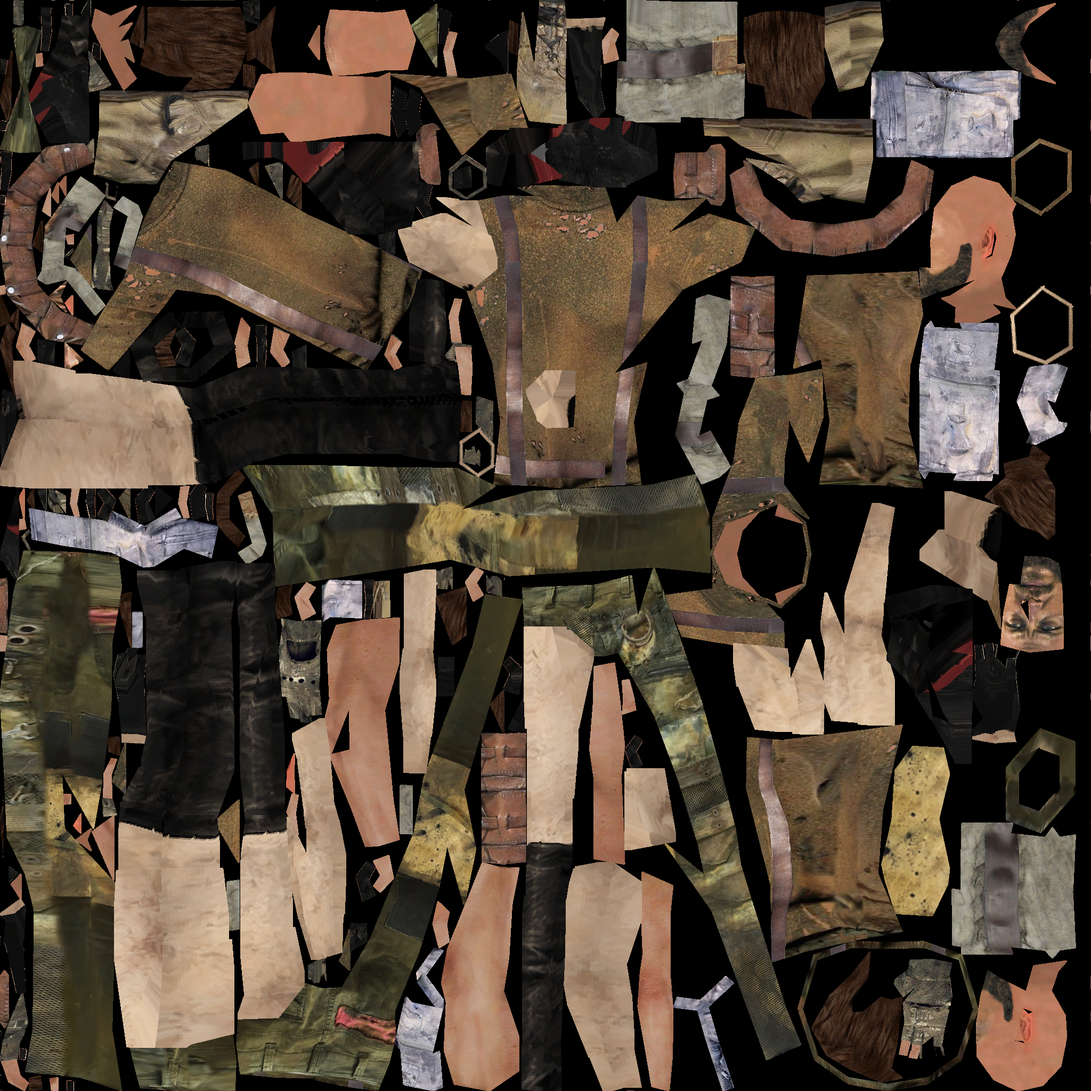
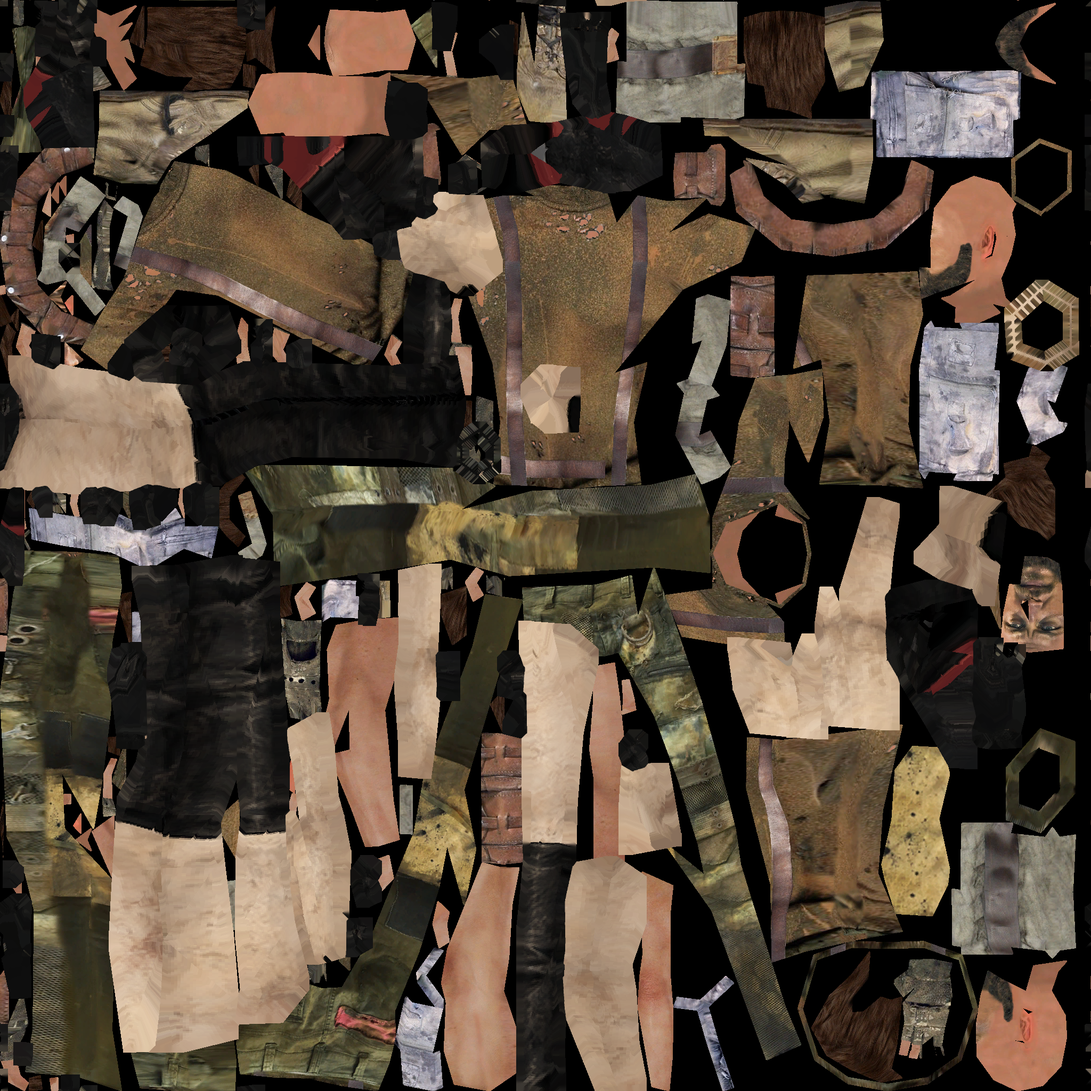
FemalePlayer 0.5.5: arms texture - the game's glove cuff stays glove, no skin on the hands (tools/gloves.py post-pass), islands padded against mip bleeding; third-person melee swing timed to the first-person swing (arm Animator state length); car: entering in third person switches the car to its thi
Claude-Session: https://claude.ai/code/session_01RzmNirKcxka5efrDnhG4RK

diff --git a/Body.cs b/Body.cs
@@ -72,7 +72,7 @@ namespace FemalePlayer
         }
         private readonly Dictionary<string, AnimationClip> _clips = new Dictionary<string, AnimationClip>();
 
-        private float _phase, _speedSmooth, _strafeSmooth, _crouch, _prone, _runW, _meleeUntil;
+        private float _phase, _speedSmooth, _strafeSmooth, _crouch, _prone, _runW;
         private float _legThigh, _legShin;
         private bool _inCar, _snap;
         private View _lastView = View.FirstPerson;
@@ -226,6 +226,42 @@ namespace FemalePlayer
             Plugin.Verbose("Animation graph: idle " + (idle != null ? idle.name : "-") + ", run " + (run != null ? run.name : "-"));
         }
 
+        // melee swing in third person timed to the first-person one: the drawn weapon's arm Animator switches to its swing state on the click;
+        // its length (s) = how long her swing lasts, and her clip is sped up to fit it (the raider/Mixamo swings are much slower than the game's)
+        private Animator _meleeFp;
+        private int _meleeHash0;
+        private bool _meleeMeasuring;
+        private float _meleeStart, _meleeLen = 0.5f, _meleeSpeed = 1f;
+        private void StartMelee(string weapon)
+        {
+            _meleeStart = Time.time; _upperClip = ""; _meleeLen = 0.5f; _meleeMeasuring = false; _meleeFp = null;
+            var w = Game.WeaponsParent != null && !string.IsNullOrEmpty(weapon) ? Game.WeaponsParent.Find(weapon) : null;
+            if (w != null) _meleeFp = w.GetComponentInChildren<Animator>();
+            if (_meleeFp != null && _meleeFp.isActiveAndEnabled) { _meleeHash0 = _meleeFp.GetCurrentAnimatorStateInfo(0).fullPathHash; _meleeMeasuring = true; }
+        }
+
+        private bool UpdateMelee(string clipName)
+        {
+            if (_meleeStart <= 0f) return false;
+            if (_meleeMeasuring && _meleeFp != null && Time.time - _meleeStart < 0.3f)
+            {
+                var st = _meleeFp.IsInTransition(0) ? _meleeFp.GetNextAnimatorStateInfo(0) : _meleeFp.GetCurrentAnimatorStateInfo(0);
+                if (st.fullPathHash != _meleeHash0 && st.length > 0.05f)
+                {
+                    float sp = Mathf.Abs(_meleeFp.speed * st.speedMultiplier);
+                    _meleeLen = Mathf.Clamp(st.length / Mathf.Max(0.1f, sp), 0.2f, 2f);
+                    _meleeMeasuring = false;
+                    Plugin.Verbose("Melee: first-person swing " + _meleeLen.ToString("0.00") + " s");
+                }
+            }
+            else _meleeMeasuring = false;
+            var c = Clip(clipName);
+            _meleeSpeed = c != null ? Mathf.Clamp(c.length / _meleeLen, 0.5f, 5f) : 1f;
+            if (Time.time - _meleeStart < _meleeLen) return true;
+            _meleeStart = 0f;
+            return false;
+        }
+
         private void SetUpper(string clipName, float weight, float speed)
         {
             if (string.IsNullOrEmpty(clipName)) { _layers.SetInputWeight(1, 0f); return; }   // keep the last clip connected, just off
@@ -322,8 +358,8 @@ namespace FemalePlayer
             bool fire = !Game.Paused && Input.GetMouseButton(0);
             if (kind == Props.Kind.Melee || kind == Props.Kind.None || kind == Props.Kind.Throw)
             {
-                if (kind == Props.Kind.Melee && !Game.Paused && Input.GetMouseButtonDown(0)) { _meleeUntil = Time.time + 0.8f; SetUpper(Plugin.MeleeClip.Value, 1f, 1f); _upper.SetTime(0); }
-                if (Time.time < _meleeUntil) SetUpper(Plugin.MeleeClip.Value, 1f, 1f);
+                if (kind == Props.Kind.Melee && !Game.Paused && Input.GetMouseButtonDown(0)) StartMelee(weapon);
+                if (UpdateMelee(Plugin.MeleeClip.Value)) SetUpper(Plugin.MeleeClip.Value, 1f, _meleeSpeed);
                 else SetUpper("", 0f, 0f);
             }
             else
@@ -628,7 +664,8 @@ namespace FemalePlayer
             _jumpState = js;
             UpdateAction(dt);
 
-            if (kind == Props.Kind.Melee && click) { _meleeUntil = Time.time + 0.9f; _upperClip = ""; }
+            string meleeClip = Anims.Get("Melee") != null ? "Melee" : Plugin.MeleeClip.Value;
+            if (kind == Props.Kind.Melee && click) StartMelee(weapon);
             if (kind == Props.Kind.Throw && click) StartThrow();
             string gs = Game.GrenadeState;   // the quick grenade (Throw Grenade key) is not a drawn weapon: watch its Attack FSM
             if (gs == "fire" && _grenadeState != "fire") StartThrow();
@@ -640,7 +677,7 @@ namespace FemalePlayer
                 SetUpper(kind == Props.Kind.Pistol ? "PistolReload" : "RifleReload", 1f, 1f);
             else if (kind == Props.Kind.Melee)
             {
-                if (Time.time < _meleeUntil) SetUpper(Anims.Get("Melee") != null ? "Melee" : Plugin.MeleeClip.Value, 1f, 1f); else SetUpper("", 0f, 0f);
+                if (UpdateMelee(meleeClip)) SetUpper(meleeClip, 1f, _meleeSpeed); else SetUpper("", 0f, 0f);
             }
             else if (kind == Props.Kind.Throw)
             {

diff --git a/ThirdPerson.cs b/ThirdPerson.cs
@@ -22,8 +22,60 @@ namespace FemalePlayer
         private static float _nextScan, _dist, _aimDist = 20f;
         private static readonly int Mask = ~((1 << 6) | (1 << 2) | (1 << 5) | (1 << 9) | (1 << 22));   // not the player, ignore-raycast, UI, loose items, map icons
 
+        // cars: entering in third person switches the car's own camera to its third-person view; Use (F) in the car's third-person view
+        // gets out (the game only lets you out in first person, looking at the door) and keeps third person on foot
+        private static bool _wasInCar, _carWantThird, _carThirdDone, _stayThird;
+        private static float _carEnter, _exitStep;
+        private static int _exitPhase;
+
+        private static void CarTick()
+        {
+            bool inCar = Game.Ready && Game.InCar;
+            float now = Time.unscaledTime;
+            if (inCar && !_wasInCar) { _carWantThird = On && Plugin.ThirdPersonOnFoot.Value; _carThirdDone = false; _carEnter = now; _exitPhase = 0; }
+            if (!inCar && _wasInCar)
+            {
+                if (_exitPhase > 0) _stayThird = true;
+                _exitPhase = 0;
+                var du = Game.DriveUse;   // make sure the game's enter/exit FSM is back at its start (it may still think we sit in the car)
+                try { if (du != null && du.enabled && du.ActiveStateName != "Idle" && du.Fsm.GetState("Idle") != null) du.Fsm.SetState("Idle"); } catch (System.Exception) { }
+            }
+            _wasInCar = inCar;
+            if (!inCar) return;
+            try
+            {
+                if (_carWantThird && !_carThirdDone && now - _carEnter > 0.4f)
+                {
+                    var cam = Game.CarFsm("Camera");
+                    if (cam != null && cam.enabled && cam.Fsm.Initialized && cam.ActiveStateName == "1st") { cam.Fsm.SetState("3rd"); _carThirdDone = true; Plugin.Verbose("Car: third-person view (entered from third person)"); }
+                    else if (now - _carEnter > 3f) _carThirdDone = true;
+                }
+                bool carThird = !Game.FirstPersonCameraOn;
+                if (_exitPhase == 0 && carThird && !Game.Paused && Input.GetButtonDown("Use"))
+                {
+                    var du = Game.DriveUse;
+                    var sp = du != null ? du.FsmVariables.GetFsmFloat("speed") : null;
+                    if (sp != null && sp.Value > 6f) Plugin.Verbose("Car: too fast to get out");
+                    else
+                    {
+                        var cam = Game.CarFsm("Camera");
+                        if (cam != null) cam.SendEvent("3rdPersonCameraDisable");   // back to the car's first-person camera first (the PlayerCamera comes back)
+                        _exitPhase = 1; _exitStep = now + 0.1f;
+                    }
+                }
+                if (_exitPhase == 1 && now >= _exitStep)
+                {
+                    var drive = Game.CarFsm("Drive");
+                    if (drive != null) { drive.SendEvent("Deactivate"); Plugin.Verbose("Car: out from the third-person view"); }
+                    _exitPhase = 2;
+                }
+            }
+            catch (System.Exception e) { Plugin.Warn("Car third person: " + e.Message); _exitPhase = 0; }
+        }
+
         public static void Tick()
         {
+            CarTick();
             bool allowed = Plugin.Enabled.Value && Plugin.ThirdPersonOnFoot.Value && Game.Ready && !Game.InCar && Game.FirstPersonCameraOn;
             bool pressed = false;
             try { pressed = allowed && !Game.Paused && Input.GetButtonDown("Change Camera"); } catch (System.Exception) { }
@@ -33,6 +85,7 @@ namespace FemalePlayer
                 _dist = 0.3f;
                 Plugin.Verbose("Third person on foot: " + (On ? "on" : "off"));
             }
+            if (_stayThird && allowed) { _stayThird = false; On = true; _dist = 0.3f; Plugin.Verbose("Third person on foot (out of the car)"); }
             if (!allowed && On) On = false;
             // middle mouse button = orbit on / off (toggle)
             bool click = false;

diff --git a/tools/gloves.py b/tools/gloves.py
@@ -1,0 +1,48 @@
+# Post-pass for bake.py: (1) the game's glove stays glove (her glove ends lower on the wrist than the game's cuff, and the hand mapping
+# can land on her pale wrist skin -> skin-coloured cuff / a light line across the hand), (2) islands padded so mipmaps don't pull in
+# the neighbouring atlas parts. Glove texels are re-coloured with her glove colour, keeping the game texture's shading (folds, seams).
+import json,numpy as np
+from PIL import Image
+from matplotlib.path import Path
+def skin(c):
+    r,g,b=c[...,0],c[...,1],c[...,2]; return (r>g-5)&(r-b>30)&(r>100)
+def dark(c): return c.max(-1)<75
+def fix(baked, orig_png, meshes, out_png, mask_png=None, pad=12):
+    W=2048
+    org=np.asarray(Image.open(orig_png).convert('RGB')).astype(float)
+    new=np.asarray(Image.open(baked).convert('RGB')).astype(float).copy()
+    hand=np.zeros((W,W),bool); wrist=np.zeros((W,W),bool); used=np.zeros((W,W),bool)
+    for mesh in meshes:
+        d=json.load(open('_export/%s.json'%mesh)); UV=np.array(d['uv']).reshape(-1,2); T=np.array(d['tris']).reshape(-1,3)
+        bw=np.array(d['bw']); bi=np.array(d['bi']); bn=[b.split('/')[-1] for b in d['bones']]
+        dom=bi[np.arange(len(bi)),bw.argmax(1)]
+        for t in T:
+            segs=[bn[dom[i]][:4] for i in t]; seg=max(set(segs),key=segs.count)
+            p=np.array([(UV[i,0]*W,(1-UV[i,1])*W) for i in t])
+            x0,y0=np.maximum(np.floor(p.min(0)).astype(int)-1,0); x1,y1=np.minimum(np.ceil(p.max(0)).astype(int)+1,W-1)
+            gx,gy=np.meshgrid(np.arange(x0,x1+1)+.5,np.arange(y0,y1+1)+.5)
+            m=Path(p).contains_points(np.c_[gx.ravel(),gy.ravel()],radius=1.5).reshape(gx.shape)
+            yy,xx=np.nonzero(m); yy+=y0; xx+=x0
+            used[yy,xx]=True
+            if seg=='hand': hand[yy,xx]=True
+            elif seg=='arm3': wrist[yy,xx]=True
+    gl=hand&dark(new)
+    gc=np.median(new[gl],0) if gl.any() else np.array([28.,26.,26.])
+    og=(~skin(org))&(hand|wrist)
+    lm=np.median(org[og].mean(-1)) if og.any() else 100.
+    force=(hand&skin(new)) | (wrist&og&~dark(new))
+    k=np.clip(org[force].mean(-1)/lm,0.55,1.7)[:,None]
+    new[force]=np.clip(gc*k,0,255)
+    print('glove colour',gc.round(),'texels re-coloured',force.sum(),'(hand',(hand&skin(new)).sum(),')')
+    # padding: grow every island outward (only texels no arm/leg triangle uses; this texture is only on the arm/leg renderers)
+    filled=used.copy()
+    for _ in range(pad):
+        acc=np.zeros_like(new); cnt=np.zeros((W,W))
+        for dy,dx in ((1,0),(-1,0),(0,1),(0,-1),(1,1),(1,-1),(-1,1),(-1,-1)):
+            sh=np.roll(np.roll(filled,dy,0),dx,1); sv=np.roll(np.roll(new,dy,0),dx,1)
+            acc[sh]+=sv[sh]; cnt[sh]+=1
+        grow=(~filled)&(cnt>0)
+        new[grow]=acc[grow]/cnt[grow][:,None]; filled|=grow
+    Image.fromarray(new.clip(0,255).astype(np.uint8)).save(out_png)
+if __name__=='__main__':
+    fix('Player2_female.png','_export/Player2.png',['player_arm_left','player_arm_left_002','Player_leg'],'Player2_female_fixed.png')

diff --git a/Plugin.cs b/Plugin.cs
@@ -17,7 +17,7 @@ namespace FemalePlayer
     {
         public const string GUID = "com.denis.apocalypter.femaleplayer";
         public const string NAME = "FemalePlayer";
-        public const string VERSION = "0.5.4";
+        public const string VERSION = "0.5.5";
 
         internal static ManualLogSource Log;
         internal static string Dir;
@@ -47,7 +47,7 @@ namespace FemalePlayer
             BodyFirstPerson = Config.Bind("General", "BodyFirstPerson", true, "See her body in first person: legs and torso when you look down, and her shadow.");
             FemaleArms = Config.Bind("General", "FemaleArms", true, "Her bare arms and black gloves on the first-person weapon, tool and item animations (and the kick leg in her boot).");
             ReplaceDriver = Config.Bind("General", "ReplaceDriver", true, "She sits in the driver's seat instead of the game's driver model (seen from the car's third-person camera, and her arms on the wheel in first person).");
-            ThirdPersonOnFoot = Config.Bind("General", "ThirdPersonOnFoot", true, "The game's Change Camera key also works on foot: a camera behind her shoulder (click the middle mouse button to orbit around her, click again to stop). Your shots still go where the crosshair of the first-person camera points.");
+            ThirdPersonOnFoot = Config.Bind("General", "ThirdPersonOnFoot", true, "The game's Change Camera key also works on foot: a camera behind her shoulder (click the middle mouse button to orbit around her, click again to stop). Shots and picks still go where the crosshair is. Getting into a car in third person switches the car to its third-person view, and Use (F) in the car's third-person view gets you out and keeps third person on foot.");
             MirrorBody = Config.Bind("General", "RightHanded", true, "The game's raider animations hold guns in the left hand. On = her body is mirrored so she holds the gun in her right hand.");
             AlignGun = Config.Bind("Weapon grip", "AutoGrip", true, "Third person with the Mixamo clips: when she first stands still holding a rifle, the rifle is pointed from her right hand to her left hand (where the rifle clips expect it) and that grip is then kept fixed in her hand for every animation; while shooting it follows her left hand. The per-weapon lines below fine-tune it.");
             WeaponAdjust = Config.Bind("Weapon grip", "WeaponAdjustment", false, "On: in third person set the weapon's grip for the animation she is in (each clip on its own: Idle, Walk, WalkBack, StrafeLeft, StrafeRight, Run..., CrouchIdle, CrouchStrafeLeft..., Fire, FireWalk..., Reload) with the numpad - 8/2 up/down, 6/4 right/left, 7/1 forward/back; Numpad 5 switches between moving and turning it (8/2 muzzle up/down, 6/4 muzzle right/left, 7/1 roll); Numpad 9/3 previews the animations one by one standing still; Numpad - clears the animation's grip; Numpad / copies the shown grip and Numpad * pastes it into the current animation. Saved in config/FemalePlayer/weapon-grips.cfg.");

diff --git a/Game.cs b/Game.cs
@@ -189,6 +189,31 @@ namespace FemalePlayer
 
         public static bool Paused { get { return Time.timeScale < 0.01f; } }
 
+        // the FSM <name> on the DriveTrigger of the car she sits in (the Player rides under the car's sitPos): Camera (1st / 3rd), Drive (exit)
+        public static PlayMakerFSM CarFsm(string name)
+        {
+            if (Player == null) return null;
+            for (var t = Player.transform.parent; t != null; t = t.parent)
+            {
+                var dt = t.Find("DriveTrigger");
+                if (dt == null) continue;
+                foreach (var f in dt.GetComponents<PlayMakerFSM>()) if (f.FsmName == name) return f;
+                return null;
+            }
+            return null;
+        }
+
+        // PlayerCamera [DriveUse]: the game's own enter/exit (Use while looking at the car's trigger, first person only)
+        public static PlayMakerFSM DriveUse
+        {
+            get
+            {
+                if (PlayerCamera == null) return null;
+                foreach (var f in PlayerCamera.GetComponents<PlayMakerFSM>()) if (f.FsmName == "DriveUse") return f;
+                return null;
+            }
+        }
+
         public static Transform FindDeep(Transform t, string name)
         {
             if (t == null) return null;

diff --git a/tools/bake.py b/tools/bake.py
@@ -122,3 +122,6 @@ print('baked leg')
 out=Image.fromarray(tex.clip(0,255).astype(np.uint8))
 out.save('Player2_female.png')
 Image.fromarray(mask).save('bake_mask.png')
+# glove fix + island padding -> the shipped Models/Player2_female_arms.png
+import gloves
+gloves.fix('Player2_female.png','_export/Player2.png',['player_arm_left','player_arm_left_002','Player_leg'],'Player2_female_arms.png')

diff --git a/README.md b/README.md
@@ -7,6 +7,7 @@ BepInEx 5 mod for **Apocalypter**: play as a woman.
   skin and black gloves; the kick leg wears her boot.
 - **Third person on foot** – the game's *Change Camera* key (the one that switches views in a car) also works on foot:
   a camera over her right shoulder; click the middle mouse button to orbit around her (click again to stop). Shots and picks still come from the first-person eye; the view is turned so the screen centre is exactly where they land, so aim with the crosshair.
+  Getting into a car in third person switches the car to its own third-person view; **Use (F)** in the car's third-person view gets you out (the game only allows it in first person) and keeps third person on foot.
   Her body is animated with the game's own humanoid raider clips (idle, run, rifle/pistol aim, melee swing) plus a
   procedural walk, strafe, crouch, prone and aim-pitch; the gun in her hand is the NPC model of the weapon you hold
   (Flexa's AKM, Sprokka's pipe pistol, Lugnut's shotgun …) at the spot the raiders hold it.
